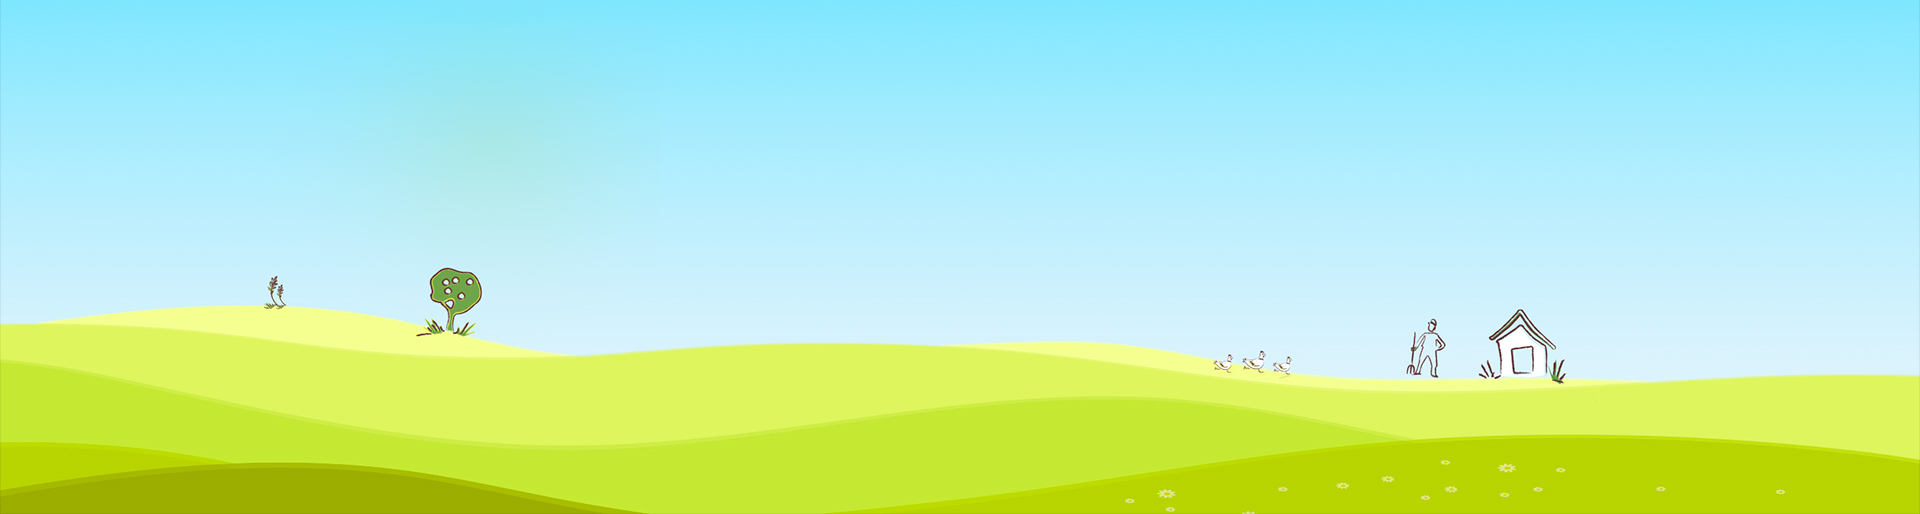
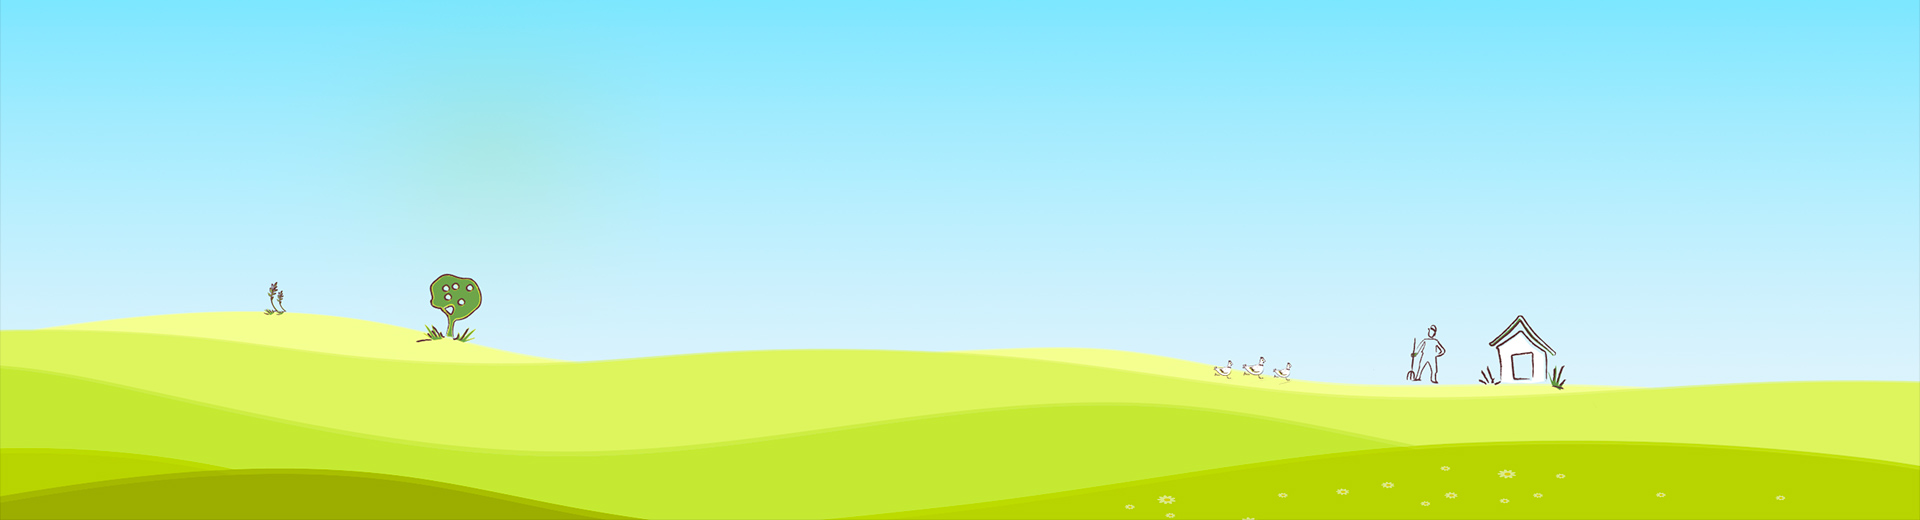
added root

diff --git a/home.html b/home.html
@@ -37,13 +37,13 @@
       </div>
       <div class="home-banner">
         <div class="decorete-elements">
-          <div class="img-holder"><img src="assets/images/banner1-bg.png" alt="Banner Image"></div>
+          <div class="banner-img-holder"><img src="assets/images/banner1-bg.jpg" alt="Banner Image"></div>
           <div class="element-sky1"></div>
           <div class="element-sky2"></div>
           <div class="element-sky3"></div>
           <div class="element-sun"></div>
           <div class="element-tree"></div>
-          <div class="chicken-image-holder"><img src="assets/images/chicken-paralax-image.png" alt="image of chicken" data-scroll-speed="-8"></div>
+          <div class="chicken-image-holder"><img src="assets/images/chicken-paralax-image.png" alt="image of chicken" data-scroll-speed="-1.5"></div>
           <div class="title-section">
             <h3 class="h3">FREE RANGE</h3>
             <h2 class="h2">POULTRY</h2><span class="note">by Nature & RESPECT</span>
@@ -51,16 +51,16 @@
         </div>
       </div>
       <section class="present-section">
-        <div class="chicken-photo-holder"><img src="assets/images/chicken-paralax.png" alt="image of chicken" data-scroll-speed="-8"></div>
+        <div class="chicken-photo-holder"><img src="assets/images/chicken-paralax.png" alt="image of chicken" data-scroll-speed="-1.5"></div>
         <div class="container">
           <div class="root-holder">
             <svg id="svgroot" version="1.1" xmlns="http://www.w3.org/2000/svg" xmlns:xlink="http://www.w3.org/1999/xlink" x="0px" y="0px" viewbox="0 0 300.2 309.8" style="enable-background:new 0 0 300.2 309.8;" xml:space="preserve">
               <style type="text/css">.st0{fill:#CAD434;}</style>
-              <linearGradient id="linear" x1="50%" y1="100%" x2="50%" y2="0%">
+              <radialGradient id="linear" x1="50%" y1="0%" cy="100%" x2="50%" y2="100%" r="100%">
                 <stop offset="0%" stop-color="#CAD434">    </stop>
-                <stop id="point1" offset="1%" stop-color="#CAD434"> </stop>
-                <stop id="point2" offset="2%" stop-color="rgba(202,212,52,0)">            </stop>
-              </linearGradient>
+                <stop id="point1" offset="0%" stop-color="#CAD434"> </stop>
+                <stop id="point2" offset="5%" stop-color="rgba(202,212,52,0)">            </stop>
+              </radialGradient>
               <g transform="translate(0.000000,323.000000) scale(0.050000,-0.050000)">
                 <path fill="url(#linear)" d="M3103.2,6445.7c0-97.5,6.8-191.5,6.8-192.2c0,0-0.5-4.7-2.1-13.9c-26.5-152.8-37.1-187.7-121.2-355    c-133-268-155-395-123-699c12-123,23-314,23-424c0-113,12-240,28-292c26-89,25-98-27-208c-151-319-326-369-792-226    c-286,88-332,78-554-132c-283-267-310-269-632-51c-555,375-1102-336-844-1097c72-210,168-345,477-667c435-453,567-647,664-973    c56-189,132-339,291-580c175-264,281-380,129-140c-184,289-311,550-370,760c-99,353-243,568-666,996c-401,406-490,564-525,934    c-38,403,77,656,364,802c197,99,297,75,563-135c199-157,323-141,554,74c220,205,268,217,550,139c456-127,635-76,781,219l74,148    l82-123c188-279,349-315,692-155c300,139,380,147,511,54c477-340,483-341,789-109c411,311,806,94,906-500c57-339-35-516-603-1157    c-274-310-443-535-557-742c-87-159-254-562-239-577c4-5,24,34,44,87c140,377,380,729,820,1206c526,570,631,764,603,1110    c-55,672-556,998-974,635c-282-244-347-243-697,12c-212,154-265,158-542,39c-418-179-570-137-751,208c-75,142-77,150-92,435    c-8,160-21,394-29,522c-19,314,3,395,170,637l118,175.9c9.1,13.5,26,280.1,25.8,296.3l-6.9,73.1L3103.2,6445.7z"></path>
               </g>

diff --git a/src/scss/components/banners/_home-banner.scss b/src/scss/components/banners/_home-banner.scss
@@ -5,13 +5,18 @@ $green-light:#cfe849;
     max-width: 1920px;
     margin: 0 auto;
     z-index: 2;
+    mask-image: url('../images/home-banner-decoration.png');
+    mask-size: 100% auto;
+    mask-mode: alpha;
+    mask-repeat: no-repeat;
+    mask-position: 50% 100%;
     .chicken-image-holder {
         position: absolute;
-        left: 351px;
-        bottom: 0px;
-        width: 357px;
+        left: 371px;
+        bottom:-178px;
+        width: 382px;
         overflow: hidden;
-        height: 212px;
+
         vertical-align: bottom;
         display: flex;
         align-items: flex-end;
@@ -49,8 +54,9 @@ $green-light:#cfe849;
         width: 730px;
         z-index: -1;
     }
-    .img-holder {
+    .banner-img-holder {
         overflow: hidden;
+
     }
     .title-section {
         font-family: $base-font-hobo;

diff --git a/src/js/modules/commonModule.js b/src/js/modules/commonModule.js
@@ -18,9 +18,9 @@ var common = {
           $doc = $(document);
       $doc.on('scroll', function(){
         console.log($doc.scrollTop());
-        var scrPos = $doc.scrollTop()/15;
+        var scrPos = $doc.scrollTop()/13;
         $point1.attr('offset', scrPos-1 + '%');
-        $point2.attr('offset', scrPos + '%');
+        $point2.attr('offset', scrPos+5 + '%');
  
       });
 

diff --git a/src/scss/components/sections/_present-section.scss b/src/scss/components/sections/_present-section.scss
@@ -158,8 +158,8 @@
     .chicken-photo-holder {
         position: absolute;
         left: 29px;
-        top: -234px;
-        width: 730px;
+        top: -290px;
+        width: 735px;
         z-index: 1;
         @include media('<1600px') {
             width: 500px;

diff --git a/src/scss/components/_main.scss b/src/scss/components/_main.scss
@@ -6,8 +6,3 @@
 				'sliders/main',
         'buttons',
         'sections/main';
-
-
-
-
-
